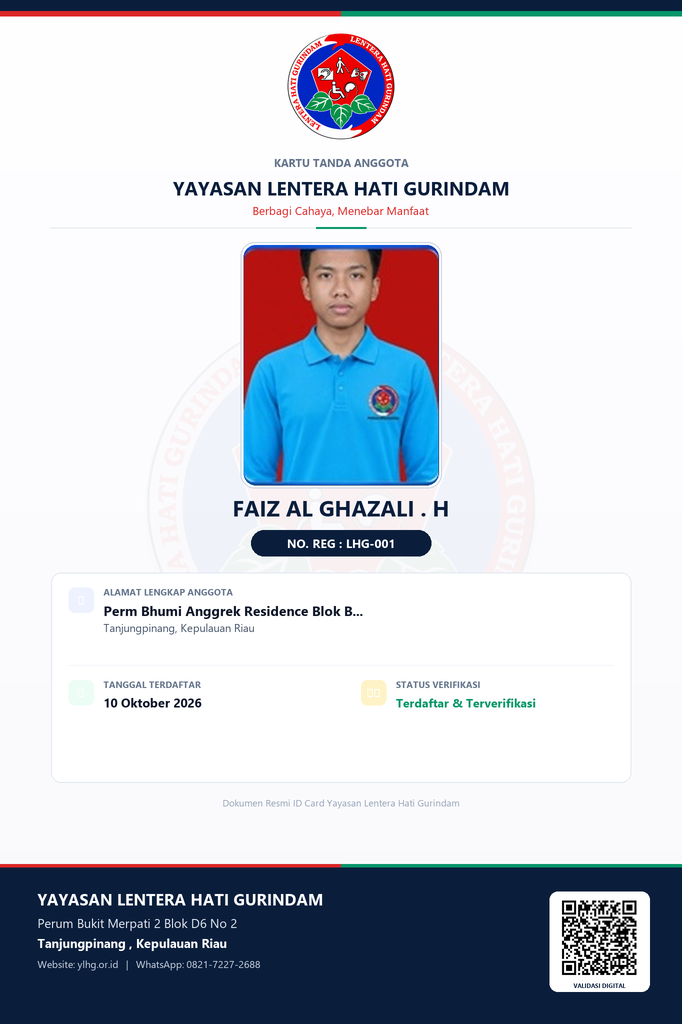
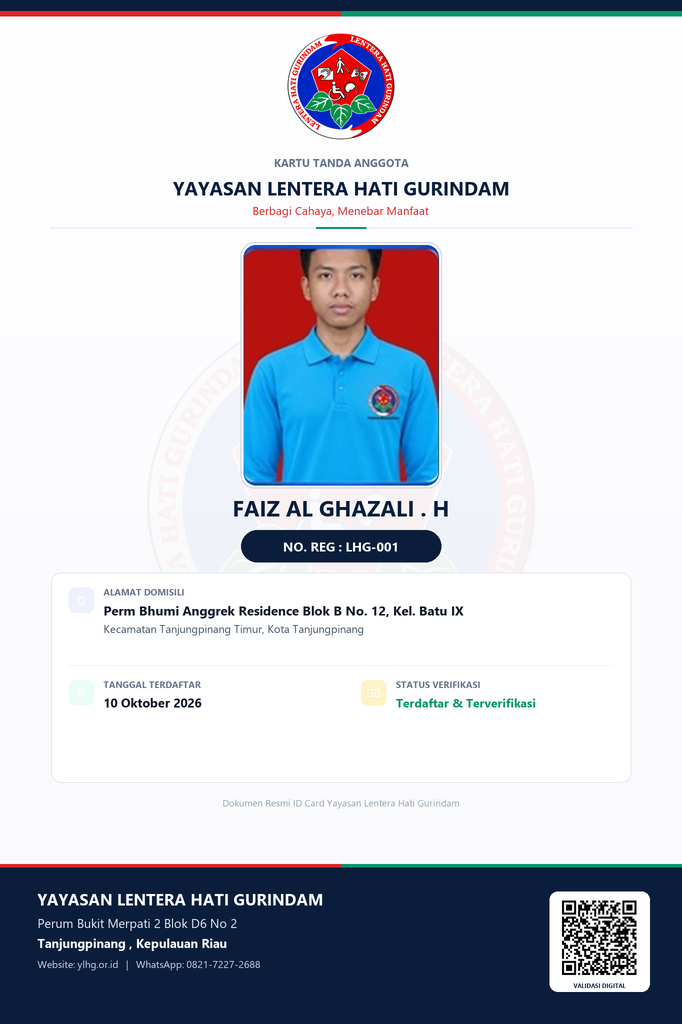
fix: presisikan posisi teks No Reg di tengah kotak pill dan tampilkan alamat lengkap tanpa terpotong

Changed region(s): [[0.154, 0.5625, 0.6774, 0.625], [0.3387, 0.5, 0.6466, 0.5625]]

diff --git a/js/app.js b/js/app.js
@@ -1556,8 +1556,18 @@ function previewKTA() {
   const a = DB.get('lhg_anggota').find(x => x.id === id);
   if (!a) return;
 
-  const rawAlamat = a.kelurahan ? (a.alamat ? a.alamat + ', ' + a.kelurahan : a.kelurahan) : (a.alamat || 'Tanjungpinang');
-  const displayAlamat = rawAlamat.length > 32 ? rawAlamat.substring(0, 30) + '...' : rawAlamat;
+  // Alamat Lengkap Utuh (TIDAK TERPOTONG / TANPA ELIPSIS)
+  let fullAlamat = (a.alamat || '').trim();
+  if (a.kelurahan && a.kelurahan.trim() && a.kelurahan.trim() !== '-') {
+    const kel = a.kelurahan.trim();
+    if (!fullAlamat.toLowerCase().includes(kel.toLowerCase())) {
+      fullAlamat += (fullAlamat ? ', Kel. ' : 'Kel. ') + kel;
+    }
+  }
+  if (!fullAlamat || fullAlamat === '-') {
+    fullAlamat = 'Kota Tanjungpinang, Kepulauan Riau';
+  }
+
   const noReg = a.noAnggota || a.id;
   const tglDaftar = formatDate(a.tglDaftar);
 
@@ -1597,8 +1607,8 @@ function previewKTA() {
             </div>
 
             <div class="idcard-val idcard-val-nama" title="${a.nama}">${a.nama}</div>
-            <div class="idcard-val idcard-val-reg">${noReg}</div>
-            <div class="idcard-val idcard-val-alamat" title="${rawAlamat}">${displayAlamat}</div>
+            <div class="idcard-val idcard-val-reg">NO. REG : ${noReg}</div>
+            <div class="idcard-val idcard-val-alamat" title="${fullAlamat}">${fullAlamat}</div>
             <div class="idcard-val idcard-val-tgl">${tglDaftar}</div>
           ` : `
             <!-- Sisi Belakang Mockup -->
@@ -1668,7 +1678,7 @@ function previewKTA() {
 
         <div style="background: #F8FAFC; border-radius: 8px; padding: 12px; font-size: 11.5px; color: #475569; line-height: 1.5; border-left: 3.5px solid #059669; border: 1px solid var(--border-color); border-left: 3.5px solid #059669;">
           <strong>💡 Format ID Card Resmi:</strong><br>
-          Memuat Logo Yayasan Asli, Foto, Nama, Alamat, No Registrasi, serta Alamat Yayasan resmi di bagian bawah: <em>Perum Bukit Merpati 2 Blok D6 No 2, Tanjungpinang, Kepulauan Riau</em>.
+          Memuat Logo Yayasan Asli, Foto, Nama, Alamat Lengkap, No Registrasi, serta Alamat Yayasan resmi di bagian bawah: <em>Perum Bukit Merpati 2 Blok D6 No 2, Tanjungpinang, Kepulauan Riau</em>.
         </div>
       </div>
     </div>
@@ -1678,6 +1688,33 @@ function previewKTA() {
 function changeKTAModel(id, model) {
   window._currentKTAModel = model;
   previewKTA(id);
+}
+
+function drawKTATextWrapped(ctx, text, x, y, maxWidth, lineHeight, maxLines) {
+  maxLines = maxLines || 3;
+  const words = (text || '').split(' ');
+  let line = '';
+  let curY = y;
+  let lineCount = 0;
+
+  for (let n = 0; n < words.length; n++) {
+    const testLine = line + words[n] + ' ';
+    const metrics = ctx.measureText(testLine);
+    if (metrics.width > maxWidth && n > 0) {
+      ctx.fillText(line.trim(), x, curY);
+      line = words[n] + ' ';
+      curY += lineHeight;
+      lineCount++;
+      if (lineCount >= maxLines - 1 && n < words.length - 1) {
+        const remaining = words.slice(n).join(' ');
+        ctx.fillText(remaining, x, curY);
+        return;
+      }
+    } else {
+      line = testLine;
+    }
+  }
+  ctx.fillText(line.trim(), x, curY);
 }
 
 function generateKTACanvas(id, callback) {
@@ -1716,8 +1753,17 @@ function generateKTACanvas(id, callback) {
       return;
     }
 
-    const rawAlamat = a.kelurahan ? (a.alamat ? a.alamat + ', ' + a.kelurahan : a.kelurahan) : (a.alamat || 'Tanjungpinang');
-    const displayAlamat = rawAlamat.length > 32 ? rawAlamat.substring(0, 30) + '...' : rawAlamat;
+    // Alamat Lengkap Utuh (TIDAK TERPOTONG)
+    let fullAlamat = (a.alamat || '').trim();
+    if (a.kelurahan && a.kelurahan.trim() && a.kelurahan.trim() !== '-') {
+      const kel = a.kelurahan.trim();
+      if (!fullAlamat.toLowerCase().includes(kel.toLowerCase())) {
+        fullAlamat += (fullAlamat ? ', Kel. ' : 'Kel. ') + kel;
+      }
+    }
+    if (!fullAlamat || fullAlamat === '-') {
+      fullAlamat = 'Kota Tanjungpinang, Kepulauan Riau';
+    }
     const noReg = a.noAnggota || a.id;
 
     const finishCanvas = () => {
@@ -1732,7 +1778,7 @@ function generateKTACanvas(id, callback) {
 
         ctx.font = 'bold 16px "Plus Jakarta Sans", Arial, sans-serif';
         ctx.fillStyle = '#1E293B';
-        ctx.fillText(displayAlamat, dataStartX, 721);
+        ctx.fillText(fullAlamat, dataStartX, 721);
 
         ctx.fillStyle = '#0F172A';
         ctx.font = 'bold 20px "Plus Jakarta Sans", Arial, sans-serif';
@@ -1743,28 +1789,40 @@ function generateKTACanvas(id, callback) {
         ctx.fillText(formatDate(a.tglDaftar), dataStartX, 841);
       } else {
         // Modern Redesign Layout (2026)
-        // 1. Nama
+        // 1. Nama Lengkap
         ctx.textAlign = 'center';
         ctx.textBaseline = 'middle';
         ctx.fillStyle = '#0A1E3C';
         ctx.font = 'bold 22px "Plus Jakarta Sans", Arial, sans-serif';
         ctx.fillText(a.nama.toUpperCase(), 341, 520);
 
-        // 2. No. Registrasi Badge
-        ctx.fillStyle = '#1A4B92';
-        ctx.font = 'bold 12.5px "Plus Jakarta Sans", Arial, sans-serif';
-        ctx.fillText('NO. REG : ' + noReg, 341, 543);
+        // 2. No. Registrasi Badge - Gambar Kotak Pill Presisi 100% & Teks Tepat di Tengah
+        const badgeW = 200;
+        const badgeH = 32;
+        const badgeX = 341 - badgeW / 2;
+        const badgeY = 540;
+        ctx.save();
+        roundRect(ctx, badgeX, badgeY, badgeW, badgeH, 16);
+        ctx.fillStyle = curModel === 'model2' ? '#0A1E3C' : (curModel === 'model3' ? '#059669' : '#EEF2FF');
+        ctx.fill();
+        ctx.lineWidth = 1.5;
+        ctx.strokeStyle = curModel === 'model2' ? '#0A1E3C' : (curModel === 'model3' ? '#059669' : '#C7D2FE');
+        ctx.stroke();
 
-        // 3. Alamat
+        ctx.textAlign = 'center';
+        ctx.textBaseline = 'middle';
+        ctx.fillStyle = (curModel === 'model2' || curModel === 'model3') ? '#FFFFFF' : '#1A4B92';
+        ctx.font = 'bold 13px "Plus Jakarta Sans", Arial, sans-serif';
+        ctx.fillText('NO. REG : ' + noReg, 341, badgeY + badgeH / 2);
+        ctx.restore();
+
+        // 3. Alamat Lengkap Utuh - Multi-line wrapping agar semua teks terbaca tanpa terpotong
         ctx.textAlign = 'left';
         ctx.textBaseline = 'alphabetic';
         ctx.fillStyle = '#0F172A';
-        ctx.font = 'bold 14px "Plus Jakarta Sans", Arial, sans-serif';
-        ctx.fillText(displayAlamat, 76, 624);
+        ctx.font = 'bold 12.5px "Plus Jakarta Sans", Arial, sans-serif';
 
-        ctx.fillStyle = '#475569';
-        ctx.font = '11px "Plus Jakarta Sans", Arial, sans-serif';
-        ctx.fillText('Kota Tanjungpinang, Kepulauan Riau', 76, 644);
+        drawKTATextWrapped(ctx, fullAlamat, 76, 622, 520, 18, 3);
 
         // 4. Tanggal Terdaftar
         ctx.fillStyle = '#0F172A';

diff --git a/css/style.css b/css/style.css
@@ -1102,6 +1102,7 @@ button, input, select, textarea {
   width: 27.86%;
   height: 22.95%;
   border-radius: 12px;
+  z-index: 2;
 }
 
 .idcard-mockup.modern-mode .idcard-val {
@@ -1110,35 +1111,62 @@ button, input, select, textarea {
 
 .idcard-mockup.modern-mode .idcard-val-nama {
   top: 50.8%;
-  left: 8%;
-  right: 8%;
+  left: 6%;
+  right: 6%;
   justify-content: center;
   text-align: center;
   font-size: 11px;
   font-weight: 800;
   color: #0A1E3C;
+  z-index: 2;
 }
 
+/* Reg ID: pill box mandiri, presisi 100% di tengah tanpa meleset */
 .idcard-mockup.modern-mode .idcard-val-reg {
-  top: 53.0%;
-  left: 15%;
-  right: 15%;
+  position: absolute;
+  top: 52.8%;
+  left: 50%;
+  right: auto;
+  transform: translateX(-50%);
+  width: auto;
+  min-width: 140px;
+  max-width: 210px;
+  height: 21px;
+  background: #EEF2FF;
+  border: 1.2px solid #C7D2FE;
+  border-radius: 11px;
+  display: flex;
+  align-items: center;
   justify-content: center;
   text-align: center;
-  font-size: 8px;
+  font-size: 8.5px;
   font-weight: 800;
   color: #1A4B92;
+  letter-spacing: 0.3px;
+  padding: 0 10px;
+  box-shadow: 0 1px 3px rgba(0, 0, 0, 0.05);
+  z-index: 3;
 }
 
+/* Alamat: Tampil lengkap tanpa titik-titik (...) dan membungkus rapi */
 .idcard-mockup.modern-mode .idcard-val-alamat {
-  top: 61.0%;
+  top: 60.5%;
   left: 11.2%;
   right: 11.2%;
-  justify-content: flex-start;
+  height: auto;
+  max-height: 40px;
+  white-space: normal;
+  overflow: hidden;
+  text-overflow: ellipsis;
+  display: -webkit-box;
+  -webkit-line-clamp: 2;
+  -webkit-box-orient: vertical;
   text-align: left;
-  font-size: 9px;
+  font-size: 8.5px;
+  line-height: 1.35;
   font-weight: 700;
   color: #0F172A;
+  z-index: 2;
 }
 
 .idcard-mockup.modern-mode .idcard-val-tgl {
@@ -1150,6 +1178,7 @@ button, input, select, textarea {
   font-size: 9px;
   font-weight: 700;
   color: #0F172A;
+  z-index: 2;
 }
 
 /* CONTROLS PANEL ON THE RIGHT */

diff --git a/generate_modern_idcard.py b/generate_modern_idcard.py
@@ -210,14 +210,14 @@ def generate_model_1_master(sample_data=True):
                   font=get_font(44, bold=True), fill=(10, 30, 60), anchor="mm")
 
     # Nomor Registrasi (Modern Pill Badge)
-    reg_w, reg_h = 340, 52
+    reg_w, reg_h = 400, 64
     reg_x = (W - reg_w) // 2
-    reg_y = 1085
-    round_rect(draw, [reg_x, reg_y, reg_x + reg_w, reg_y + reg_h], radius=26,
+    reg_y = 1080
+    round_rect(draw, [reg_x, reg_y, reg_x + reg_w, reg_y + reg_h], radius=32,
                fill=(238, 242, 255), outline=(199, 210, 254), width=2)
     if sample_data:
-        draw.text((reg_x + reg_w // 2, reg_y + reg_h // 2), "NO. REG : LHG-001",
-                  font=get_font(25, bold=True), fill=(26, 75, 146), anchor="mm")
+        draw.text((W // 2, reg_y + reg_h // 2), "NO. REG : LHG-001",
+                  font=get_font(26, bold=True), fill=(26, 75, 146), anchor="mm")
 
     # Modern Metadata Information Card
     card_w = 1140
@@ -231,16 +231,16 @@ def generate_model_1_master(sample_data=True):
     draw.rounded_rectangle([card_x, card_y + 16, card_x + 8, card_y + card_h - 16], radius=4,
                            fill=(10, 30, 60))
 
-    # Field 1: ALAMAT
+    # Field 1: ALAMAT LENGKAP
     row1_y = card_y + 40
     # Label
     draw.text((card_x + 40, row1_y), "ALAMAT DOMISILI",
               font=get_font(20, bold=True), fill=(100, 116, 139), anchor="lm")
     if sample_data:
-        draw.text((card_x + 40, row1_y + 42), "Perm Bhumi Anggrek Residence Blok B...",
-                  font=get_font(28, bold=True), fill=(15, 23, 42), anchor="lm")
-        draw.text((card_x + 40, row1_y + 80), "Kota Tanjungpinang, Kepulauan Riau",
-                  font=get_font(22, bold=False), fill=(71, 85, 105), anchor="lm")
+        draw.text((card_x + 40, row1_y + 40), "Perm Bhumi Anggrek Residence Blok B No. 12, Kel. Batu IX",
+                  font=get_font(26, bold=True), fill=(15, 23, 42), anchor="lm")
+        draw.text((card_x + 40, row1_y + 78), "Kecamatan Tanjungpinang Timur, Kota Tanjungpinang",
+                  font=get_font(23, bold=False), fill=(71, 85, 105), anchor="lm")
 
     # Divider line inside card
     draw.line([(card_x + 35, card_y + 190), (card_x + card_w - 35, card_y + 190)],
@@ -263,6 +263,8 @@ def generate_model_1_master(sample_data=True):
     act_w, act_h = 240, 42
     round_rect(draw, [col2_x, row2_y + 20, col2_x + act_w, row2_y + 20 + act_h], radius=21,
                fill=(236, 253, 245), outline=(167, 243, 208), width=1)
+    draw.text((col2_x + act_w // 2, row2_y + 20 + act_h // 2), "● ANGGOTA AKTIF",
+              font=get_font(20, bold=True), fill=(5, 150, 105), anchor="mm")
     draw.text((col2_x + act_w // 2, row2_y + 20 + act_h // 2), "● ANGGOTA AKTIF",
               font=get_font(20, bold=True), fill=(5, 150, 105), anchor="mm")
 
@@ -458,14 +460,14 @@ def generate_model_2_master(sample_data=True):
                   font=get_font(44, bold=True), fill=(10, 30, 60), anchor="mm")
 
     # Modern registration badge
-    reg_w, reg_h = 360, 52
+    reg_w, reg_h = 400, 64
     reg_x = (W - reg_w) // 2
     reg_y = 1060
-    round_rect(draw, [reg_x, reg_y, reg_x + reg_w, reg_y + reg_h], radius=26,
+    round_rect(draw, [reg_x, reg_y, reg_x + reg_w, reg_y + reg_h], radius=32,
                fill=(10, 30, 60), outline=(10, 30, 60), width=1)
     if sample_data:
-        draw.text((reg_x + reg_w // 2, reg_y + reg_h // 2), "NO. REG : LHG-001",
-                  font=get_font(24, bold=True), fill=(255, 255, 255), anchor="mm")
+        draw.text((W // 2, reg_y + reg_h // 2), "NO. REG : LHG-001",
+                  font=get_font(26, bold=True), fill=(255, 255, 255), anchor="mm")
 
     # Clean Modern Minimalist Data Block (Grid / Box Layout)
     box_w = 1160
@@ -475,19 +477,19 @@ def generate_model_2_master(sample_data=True):
     round_rect(draw, [box_x, box_y, box_x + box_w, box_y + box_h], radius=20,
                fill=(255, 255, 255), outline=(226, 232, 240), width=2)
 
-    # Item 1: ALAMAT
+    # Item 1: ALAMAT LENGKAP
     item1_y = box_y + 40
     # Subtle modern icon badge
     round_rect(draw, [box_x + 35, item1_y - 10, box_x + 85, item1_y + 40], radius=12,
                fill=(238, 242, 255))
     draw.text((box_x + 60, item1_y + 15), "📍", font=get_font(22), anchor="mm")
     
-    draw.text((box_x + 105, item1_y - 2), "ALAMAT LENGKAP ANGGOTA",
+    draw.text((box_x + 105, item1_y - 2), "ALAMAT DOMISILI",
               font=get_font(18, bold=True), fill=(100, 116, 139), anchor="lm")
     if sample_data:
-        draw.text((box_x + 105, item1_y + 35), "Perm Bhumi Anggrek Residence Blok B...",
-                  font=get_font(27, bold=True), fill=(15, 23, 42), anchor="lm")
-        draw.text((box_x + 105, item1_y + 70), "Tanjungpinang, Kepulauan Riau",
+        draw.text((box_x + 105, item1_y + 35), "Perm Bhumi Anggrek Residence Blok B No. 12, Kel. Batu IX",
+                  font=get_font(26, bold=True), fill=(15, 23, 42), anchor="lm")
+        draw.text((box_x + 105, item1_y + 72), "Kecamatan Tanjungpinang Timur, Kota Tanjungpinang",
                   font=get_font(22, bold=False), fill=(71, 85, 105), anchor="lm")
 
     # Divider
@@ -667,14 +669,14 @@ def generate_model_3_master(sample_data=True):
         draw.text((W // 2, nama_y), "FAIZ AL GHAZALI . H",
                   font=get_font(44, bold=True), fill=(10, 30, 60), anchor="mm")
 
-    reg_w, reg_h = 340, 50
+    reg_w, reg_h = 400, 64
     reg_x = (W - reg_w) // 2
-    reg_y = 1095
-    round_rect(draw, [reg_x, reg_y, reg_x + reg_w, reg_y + reg_h], radius=25,
+    reg_y = 1090
+    round_rect(draw, [reg_x, reg_y, reg_x + reg_w, reg_y + reg_h], radius=32,
                fill=(5, 150, 105), outline=(5, 150, 105))
     if sample_data:
-        draw.text((reg_x + reg_w // 2, reg_y + reg_h // 2), "NO. REG : LHG-001",
-                  font=get_font(24, bold=True), fill=(255, 255, 255), anchor="mm")
+        draw.text((W // 2, reg_y + reg_h // 2), "NO. REG : LHG-001",
+                  font=get_font(26, bold=True), fill=(255, 255, 255), anchor="mm")
 
     # Information Card
     card_w = 1140
@@ -688,15 +690,15 @@ def generate_model_3_master(sample_data=True):
     draw.rounded_rectangle([card_x, card_y + 15, card_x + 8, card_y + card_h - 15], radius=4,
                            fill=(5, 150, 105))
 
-    # Field 1: ALAMAT
+    # Field 1: ALAMAT LENGKAP
     row1_y = card_y + 40
-    draw.text((card_x + 40, row1_y), "ALAMAT LENGKAP",
+    draw.text((card_x + 40, row1_y), "ALAMAT DOMISILI",
               font=get_font(20, bold=True), fill=(100, 116, 139), anchor="lm")
     if sample_data:
-        draw.text((card_x + 40, row1_y + 42), "Perm Bhumi Anggrek Residence Blok B...",
-                  font=get_font(28, bold=True), fill=(15, 23, 42), anchor="lm")
-        draw.text((card_x + 40, row1_y + 80), "Kota Tanjungpinang, Kepulauan Riau",
-                  font=get_font(22, bold=False), fill=(71, 85, 105), anchor="lm")
+        draw.text((card_x + 40, row1_y + 40), "Perm Bhumi Anggrek Residence Blok B No. 12, Kel. Batu IX",
+                  font=get_font(26, bold=True), fill=(15, 23, 42), anchor="lm")
+        draw.text((card_x + 40, row1_y + 78), "Kecamatan Tanjungpinang Timur, Kota Tanjungpinang",
+                  font=get_font(23, bold=False), fill=(71, 85, 105), anchor="lm")
 
     draw.line([(card_x + 35, card_y + 190), (card_x + card_w - 35, card_y + 190)],
               fill=(241, 245, 249), width=2)
